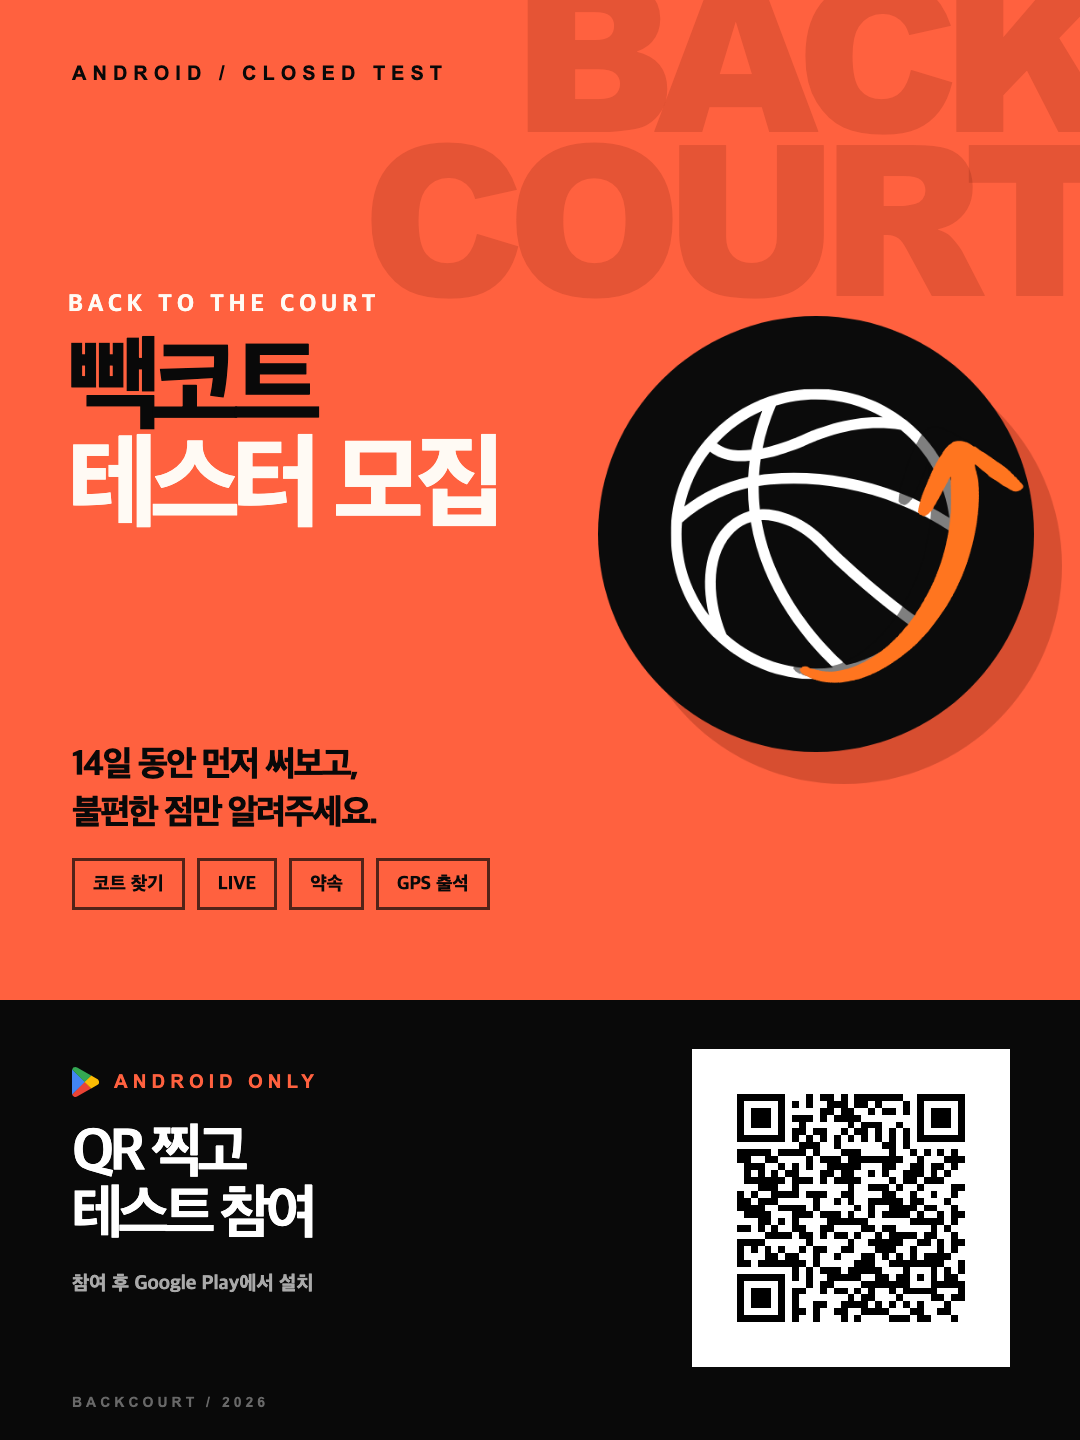
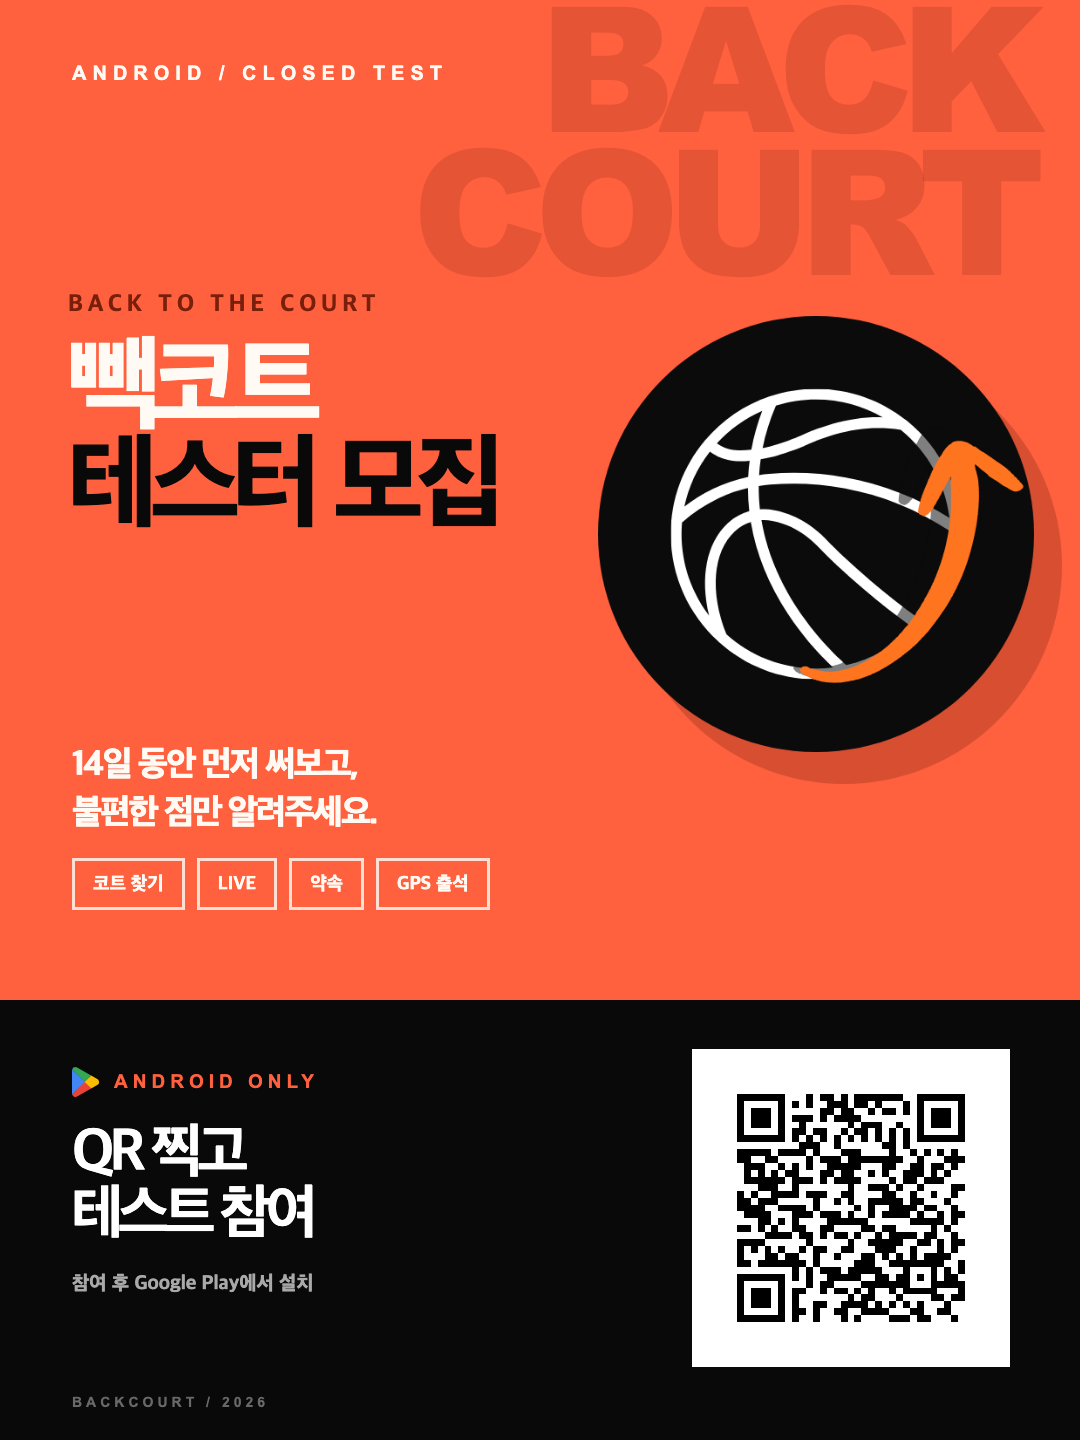
Refine tester poster colors and background type

diff --git a/Backcourt-Social/tester-poster.html b/Backcourt-Social/tester-poster.html
@@ -18,12 +18,12 @@
       }
       .back-type {
         position: absolute;
-        top: -32px;
-        right: -18px;
+        top: -8px;
+        right: 48px;
         margin: 0;
         color: rgba(112, 28, 9, .18);
-        font: 900 210px/.78 "Arial Black", Arial, sans-serif;
-        letter-spacing: -18px;
+        font: 900 174px/.82 "Arial Black", Arial, sans-serif;
+        letter-spacing: -13px;
         text-align: right;
       }
       .meta {
@@ -31,6 +31,7 @@
         z-index: 3;
         top: 62px;
         left: 72px;
+        color: #fffaf4;
         font: 900 20px Arial, sans-serif;
         letter-spacing: 6px;
       }
@@ -42,19 +43,20 @@
       }
       .title p {
         margin: 0 0 22px;
-        color: #fffaf4;
+        color: #781f0b;
         font-size: 24px;
         font-weight: 900;
         letter-spacing: 5px;
       }
       h1 {
         margin: 0;
+        color: #fffaf4;
         font-size: 104px;
         line-height: .94;
         font-weight: 950;
         letter-spacing: -8px;
       }
-      h1 span { color: #fffaf4; }
+      h1 span { color: #090909; }
       .icon {
         position: absolute;
         z-index: 2;
@@ -71,6 +73,7 @@
         top: 742px;
         left: 72px;
         margin: 0;
+        color: #fffaf4;
         font-size: 35px;
         line-height: 1.38;
         font-weight: 900;
@@ -86,7 +89,8 @@
       }
       .features span {
         padding: 12px 18px 11px;
-        border: 3px solid rgba(9, 9, 9, .7);
+        color: #fffaf4;
+        border: 3px solid rgba(255, 250, 244, .82);
         font-size: 19px;
         font-weight: 900;
       }
